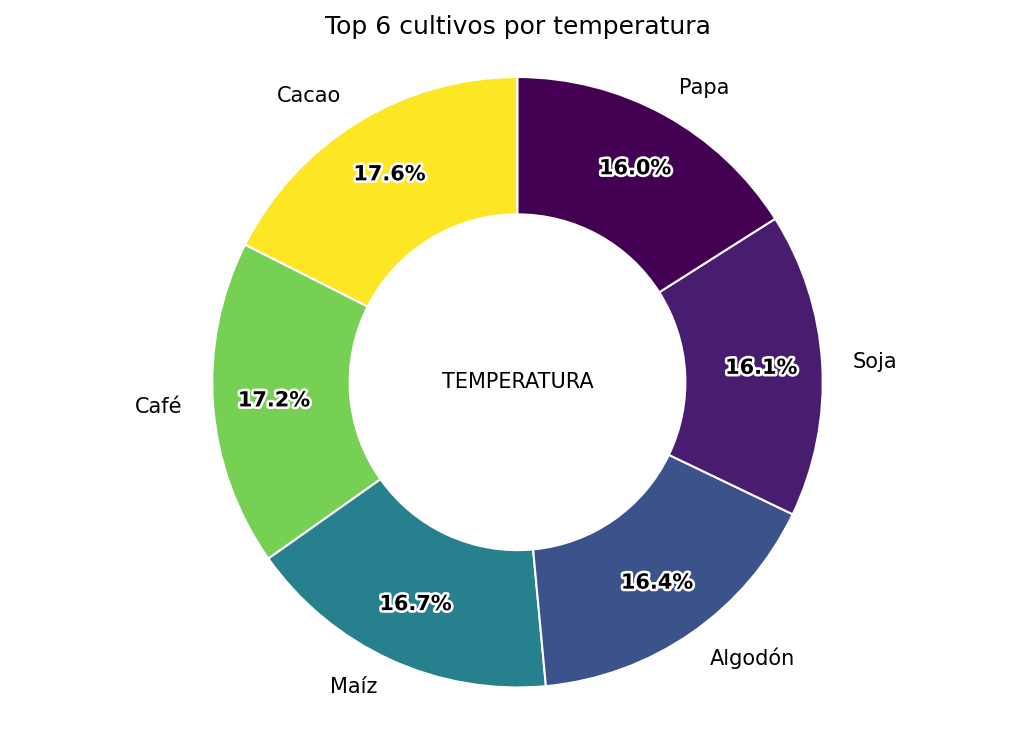
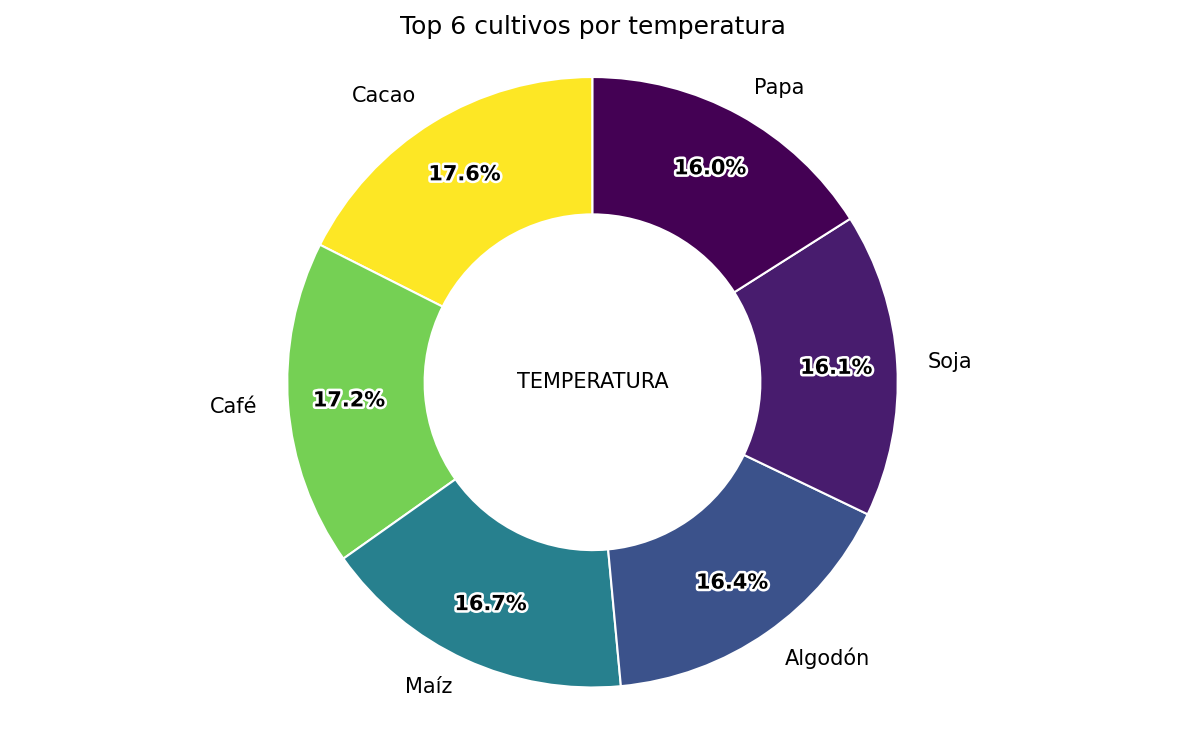
Carpeta docs creada + imagenes fixed

diff --git a/main.py b/main.py
@@ -158,7 +158,7 @@ def CropAndYield_pie():
     labels = data.index
     values = data.values
 
-    fig, ax = plt.subplots(figsize=(7, 5))
+    fig, ax = plt.subplots(figsize=(8, 5))
     wedges, texts, autotexts = ax.pie(
         values, labels=labels, colors=colores,
         autopct="%1.1f%%", startangle=90,
